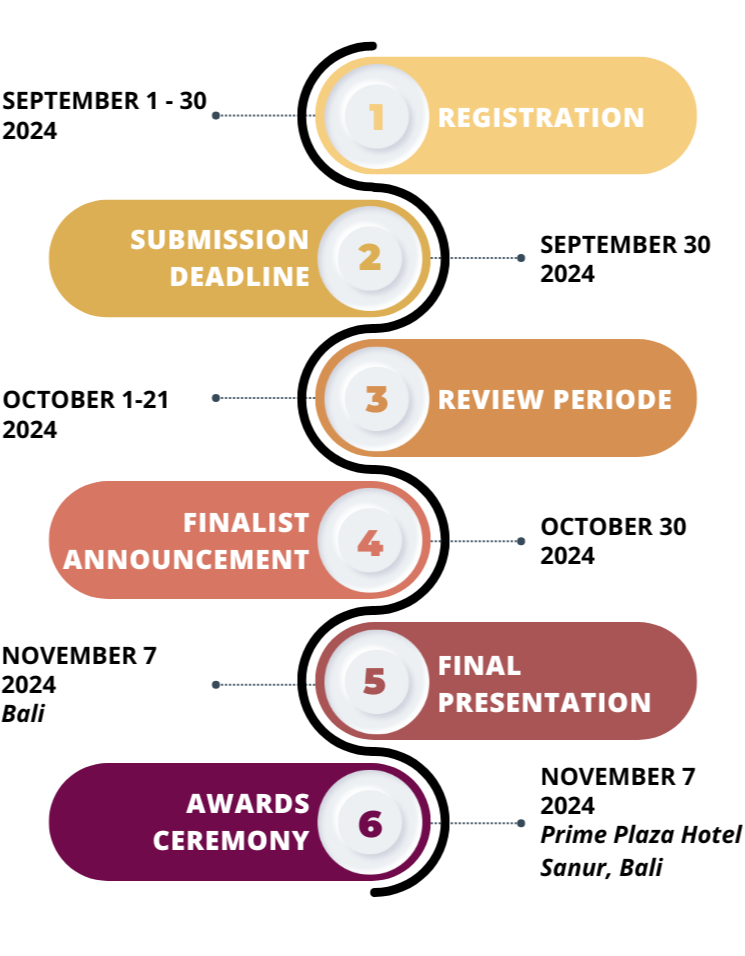
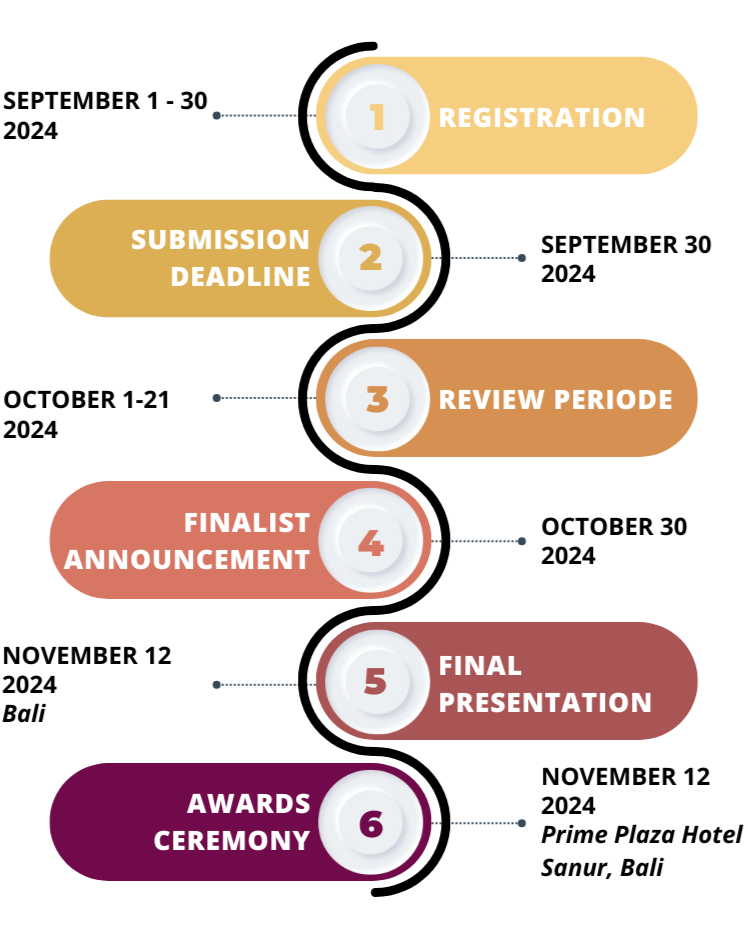
fika

diff --git a/about.html b/about.html
@@ -288,7 +288,7 @@
                 <div class="col-xl-6 wow fadeInLeft" data-wow-delay="0.2s">
                     <div class="about-item-content bg-white rounded p-5 h-100">
                         <h5 class="text-primary"><b>Date & Time:</b></h5>
-                        <p>November 7, 2024   8:00 AM</p>
+                        <p>November 12, 2024   8:00 AM</p>
                         <h5 class="text-primary"><b>Location:</b></h5>
                         <p>Prime Plaza Hotel Sanur, Denpasar, Bali, Indonesia</p>
                         <div class="row g-0 justify-content-center">
@@ -346,313 +346,6 @@
         </div>
     </div>
     <!-- Service End -->
-
-    <!-- FAQs Start -->
-    <!-- <div class="container-fluid faq-section bg-light py-5">
-        <div class="container py-5">
-            <div class="row g-5 align-items-center">
-                <div class="col-xl-6 wow fadeInLeft" data-wow-delay="0.2s">
-                    <div class="h-100">
-                        <div class="mb-5">
-                            <h4 class="text-primary">Some Important FAQ's</h4>
-                            <h1 class="display-4 mb-0">Common Frequently Asked Questions</h1>
-                        </div>
-                        <div class="accordion" id="accordionExample">
-                            <div class="accordion-item">
-                                <h2 class="accordion-header" id="headingOne">
-                                    <button class="accordion-button border-0" type="button" data-bs-toggle="collapse" data-bs-target="#collapseOne" aria-expanded="true" aria-controls="collapseOne">
-                                            Q: What happens during Freshers' Week?
-                                        </button>
-                                </h2>
-                                <div id="collapseOne" class="accordion-collapse collapse show active" aria-labelledby="headingOne" data-bs-parent="#accordionExample">
-                                    <div class="accordion-body rounded">
-                                        A: Leverage agile frameworks to provide a robust synopsis for high level overviews. Iterative approaches to corporate strategy foster collaborative thinking to further the overall value proposition. Organically grow the holistic world view of disruptive
-                                        innovation via workplace diversity and empowerment.
-                                    </div>
-                                </div>
-                            </div>
-                            <div class="accordion-item">
-                                <h2 class="accordion-header" id="headingTwo">
-                                    <button class="accordion-button collapsed" type="button" data-bs-toggle="collapse" data-bs-target="#collapseTwo" aria-expanded="false" aria-controls="collapseTwo">
-                                            Q: What is the transfer application process?
-                                        </button>
-                                </h2>
-                                <div id="collapseTwo" class="accordion-collapse collapse" aria-labelledby="headingTwo" data-bs-parent="#accordionExample">
-                                    <div class="accordion-body">
-                                        A: Leverage agile frameworks to provide a robust synopsis for high level overviews. Iterative approaches to corporate strategy foster collaborative thinking to further the overall value proposition. Organically grow the holistic world view of disruptive
-                                        innovation via workplace diversity and empowerment.
-                                    </div>
-                                </div>
-                            </div>
-                            <div class="accordion-item">
-                                <h2 class="accordion-header" id="headingThree">
-                                    <button class="accordion-button collapsed" type="button" data-bs-toggle="collapse" data-bs-target="#collapseThree" aria-expanded="false" aria-controls="collapseThree">
-                                            Q: Why should I attend community college?
-                                        </button>
-                                </h2>
-                                <div id="collapseThree" class="accordion-collapse collapse" aria-labelledby="headingThree" data-bs-parent="#accordionExample">
-                                    <div class="accordion-body">
-                                        A: Leverage agile frameworks to provide a robust synopsis for high level overviews. Iterative approaches to corporate strategy foster collaborative thinking to further the overall value proposition. Organically grow the holistic world view of disruptive
-                                        innovation via workplace diversity and empowerment.
-                                    </div>
-                                </div>
-                            </div>
-                        </div>
-                    </div>
-                </div>
-                <div class="col-xl-6 wow fadeInRight" data-wow-delay="0.4s">
-                    <img src="img/carousel-2.png" class="img-fluid w-100" alt="">
-                </div>
-            </div>
-        </div>
-    </div>  -->
-    <!-- FAQs End -->
-
-    <!-- Blog Start -->
-    <!-- <div class="container-fluid blog py-5">
-        <div class="container py-5">
-            <div class="text-center mx-auto pb-5 wow fadeInUp" data-wow-delay="0.2s" style="max-width: 800px;">
-                <h4 class="text-primary">From Blog</h4>
-                <h1 class="display-4 mb-4">News And Updates</h1>
-                <p class="mb-0">Lorem ipsum dolor, sit amet consectetur adipisicing elit. Tenetur adipisci facilis cupiditate recusandae aperiam temporibus corporis itaque quis facere, numquam, ad culpa deserunt sint dolorem autem obcaecati, ipsam mollitia hic.
-                </p>
-            </div>
-            <div class="row g-4 justify-content-center">
-                <div class="col-lg-6 col-xl-4 wow fadeInUp" data-wow-delay="0.2s">
-                    <div class="blog-item">
-                        <div class="blog-img">
-                            <img src="img/blog-1.png" class="img-fluid rounded-top w-100" alt="">
-                            <div class="blog-categiry py-2 px-4">
-                                <span>Business</span>
-                            </div>
-                        </div>
-                        <div class="blog-content p-4">
-                            <div class="blog-comment d-flex justify-content-between mb-3">
-                                <div class="small"><span class="fa fa-user text-primary"></span> Martin.C</div>
-                                <div class="small"><span class="fa fa-calendar text-primary"></span> 30 Dec 2025</div>
-                                <div class="small"><span class="fa fa-comment-alt text-primary"></span> 6 Comments</div>
-                            </div>
-                            <a href="#" class="h4 d-inline-block mb-3">Which allows you to pay down insurance bills</a>
-                            <p class="mb-3">Lorem, ipsum dolor sit amet consectetur adipisicing elit. Eius libero soluta impedit eligendi? Quibusdam, laudantium.</p>
-                            <a href="#" class="btn p-0">Read More  <i class="fa fa-arrow-right"></i></a>
-                        </div>
-                    </div>
-                </div>
-                <div class="col-lg-6 col-xl-4 wow fadeInUp" data-wow-delay="0.4s">
-                    <div class="blog-item">
-                        <div class="blog-img">
-                            <img src="img/blog-2.png" class="img-fluid rounded-top w-100" alt="">
-                            <div class="blog-categiry py-2 px-4">
-                                <span>Business</span>
-                            </div>
-                        </div>
-                        <div class="blog-content p-4">
-                            <div class="blog-comment d-flex justify-content-between mb-3">
-                                <div class="small"><span class="fa fa-user text-primary"></span> Martin.C</div>
-                                <div class="small"><span class="fa fa-calendar text-primary"></span> 30 Dec 2025</div>
-                                <div class="small"><span class="fa fa-comment-alt text-primary"></span> 6 Comments</div>
-                            </div>
-                            <a href="#" class="h4 d-inline-block mb-3">Leverage agile frameworks to provide</a>
-                            <p class="mb-3">Lorem, ipsum dolor sit amet consectetur adipisicing elit. Eius libero soluta impedit eligendi? Quibusdam, laudantium.</p>
-                            <a href="#" class="btn p-0">Read More  <i class="fa fa-arrow-right"></i></a>
-                        </div>
-                    </div>
-                </div>
-                <div class="col-lg-6 col-xl-4 wow fadeInUp" data-wow-delay="0.6s">
-                    <div class="blog-item">
-                        <div class="blog-img">
-                            <img src="img/blog-3.png" class="img-fluid rounded-top w-100" alt="">
-                            <div class="blog-categiry py-2 px-4">
-                                <span>Business</span>
-                            </div>
-                        </div>
-                        <div class="blog-content p-4">
-                            <div class="blog-comment d-flex justify-content-between mb-3">
-                                <div class="small"><span class="fa fa-user text-primary"></span> Martin.C</div>
-                                <div class="small"><span class="fa fa-calendar text-primary"></span> 30 Dec 2025</div>
-                                <div class="small"><span class="fa fa-comment-alt text-primary"></span> 6 Comments</div>
-                            </div>
-                            <a href="#" class="h4 d-inline-block mb-3">Leverage agile frameworks to provide</a>
-                            <p class="mb-3">Lorem, ipsum dolor sit amet consectetur adipisicing elit. Eius libero soluta impedit eligendi? Quibusdam, laudantium.</p>
-                            <a href="#" class="btn p-0">Read More  <i class="fa fa-arrow-right"></i></a>
-                        </div>
-                    </div>
-                </div>
-            </div>
-        </div>
-    </div> -->
-    <!-- Blog End -->
-
-    <!-- Team Start -->
-    <!-- <div class="container-fluid team pb-5">
-        <div class="container pb-5">
-            <div class="text-center mx-auto pb-5 wow fadeInUp" data-wow-delay="0.2s" style="max-width: 800px;">
-                <h4 class="text-primary">Our Team</h4>
-                <h1 class="display-4 mb-4">Meet Our Expert Team Members</h1>
-                <p class="mb-0">Lorem ipsum dolor, sit amet consectetur adipisicing elit. Tenetur adipisci facilis cupiditate recusandae aperiam temporibus corporis itaque quis facere, numquam, ad culpa deserunt sint dolorem autem obcaecati, ipsam mollitia hic.
-                </p>
-            </div>
-            <div class="row g-4">
-                <div class="col-md-6 col-lg-6 col-xl-3 wow fadeInUp" data-wow-delay="0.2s">
-                    <div class="team-item">
-                        <div class="team-img">
-                            <img src="img/team-1.jpg" class="img-fluid rounded-top w-100" alt="">
-                            <div class="team-icon">
-                                <a class="btn btn-primary btn-sm-square rounded-pill mb-2" href=""><i class="fab fa-facebook-f"></i></a>
-                                <a class="btn btn-primary btn-sm-square rounded-pill mb-2" href=""><i class="fab fa-twitter"></i></a>
-                                <a class="btn btn-primary btn-sm-square rounded-pill mb-2" href=""><i class="fab fa-linkedin-in"></i></a>
-                                <a class="btn btn-primary btn-sm-square rounded-pill mb-0" href=""><i class="fab fa-instagram"></i></a>
-                            </div>
-                        </div>
-                        <div class="team-title p-4">
-                            <h4 class="mb-0">David James</h4>
-                            <p class="mb-0">Profession</p>
-                        </div>
-                    </div>
-                </div>
-                <div class="col-md-6 col-lg-6 col-xl-3 wow fadeInUp" data-wow-delay="0.4s">
-                    <div class="team-item">
-                        <div class="team-img">
-                            <img src="img/team-2.jpg" class="img-fluid rounded-top w-100" alt="">
-                            <div class="team-icon">
-                                <a class="btn btn-primary btn-sm-square rounded-pill mb-2" href=""><i class="fab fa-facebook-f"></i></a>
-                                <a class="btn btn-primary btn-sm-square rounded-pill mb-2" href=""><i class="fab fa-twitter"></i></a>
-                                <a class="btn btn-primary btn-sm-square rounded-pill mb-2" href=""><i class="fab fa-linkedin-in"></i></a>
-                                <a class="btn btn-primary btn-sm-square rounded-pill mb-0" href=""><i class="fab fa-instagram"></i></a>
-                            </div>
-                        </div>
-                        <div class="team-title p-4">
-                            <h4 class="mb-0">David James</h4>
-                            <p class="mb-0">Profession</p>
-                        </div>
-                    </div>
-                </div>
-                <div class="col-md-6 col-lg-6 col-xl-3 wow fadeInUp" data-wow-delay="0.6s">
-                    <div class="team-item">
-                        <div class="team-img">
-                            <img src="img/team-3.jpg" class="img-fluid rounded-top w-100" alt="">
-                            <div class="team-icon">
-                                <a class="btn btn-primary btn-sm-square rounded-pill mb-2" href=""><i class="fab fa-facebook-f"></i></a>
-                                <a class="btn btn-primary btn-sm-square rounded-pill mb-2" href=""><i class="fab fa-twitter"></i></a>
-                                <a class="btn btn-primary btn-sm-square rounded-pill mb-2" href=""><i class="fab fa-linkedin-in"></i></a>
-                                <a class="btn btn-primary btn-sm-square rounded-pill mb-0" href=""><i class="fab fa-instagram"></i></a>
-                            </div>
-                        </div>
-                        <div class="team-title p-4">
-                            <h4 class="mb-0">David James</h4>
-                            <p class="mb-0">Profession</p>
-                        </div>
-                    </div>
-                </div>
-                <div class="col-md-6 col-lg-6 col-xl-3 wow fadeInUp" data-wow-delay="0.8s">
-                    <div class="team-item">
-                        <div class="team-img">
-                            <img src="img/team-4.jpg" class="img-fluid rounded-top w-100" alt="">
-                            <div class="team-icon">
-                                <a class="btn btn-primary btn-sm-square rounded-pill mb-2" href=""><i class="fab fa-facebook-f"></i></a>
-                                <a class="btn btn-primary btn-sm-square rounded-pill mb-2" href=""><i class="fab fa-twitter"></i></a>
-                                <a class="btn btn-primary btn-sm-square rounded-pill mb-2" href=""><i class="fab fa-linkedin-in"></i></a>
-                                <a class="btn btn-primary btn-sm-square rounded-pill mb-0" href=""><i class="fab fa-instagram"></i></a>
-                            </div>
-                        </div>
-                        <div class="team-title p-4">
-                            <h4 class="mb-0">David James</h4>
-                            <p class="mb-0">Profession</p>
-                        </div>
-                    </div>
-                </div>
-            </div>
-        </div>
-    </div> -->
-    <!-- Team End -->
-
-    <!-- Testimonial Start -->
-    <!-- <div class="container-fluid testimonial pb-5">
-        <div class="container pb-5">
-            <div class="text-center mx-auto pb-5 wow fadeInUp" data-wow-delay="0.2s" style="max-width: 800px;">
-                <h4 class="text-primary">Testimonial</h4>
-                <h1 class="display-4 mb-4">What Our Customers Are Saying</h1>
-                <p class="mb-0">Lorem ipsum dolor, sit amet consectetur adipisicing elit. Tenetur adipisci facilis cupiditate recusandae aperiam temporibus corporis itaque quis facere, numquam, ad culpa deserunt sint dolorem autem obcaecati, ipsam mollitia hic.
-                </p>
-            </div>
-            <div class="owl-carousel testimonial-carousel wow fadeInUp" data-wow-delay="0.2s">
-                <div class="testimonial-item bg-light rounded">
-                    <div class="row g-0">
-                        <div class="col-4  col-lg-4 col-xl-3">
-                            <div class="h-100">
-                                <img src="img/testimonial-1.jpg" class="img-fluid h-100 rounded" style="object-fit: cover;" alt="">
-                            </div>
-                        </div>
-                        <div class="col-8 col-lg-8 col-xl-9">
-                            <div class="d-flex flex-column my-auto text-start p-4">
-                                <h4 class="text-dark mb-0">Client Name</h4>
-                                <p class="mb-3">Profession</p>
-                                <div class="d-flex text-primary mb-3">
-                                    <i class="fas fa-star"></i>
-                                    <i class="fas fa-star"></i>
-                                    <i class="fas fa-star"></i>
-                                    <i class="fas fa-star"></i>
-                                    <i class="fas fa-star"></i>
-                                </div>
-                                <p class="mb-0">Lorem, ipsum dolor sit amet consectetur adipisicing elit. Enim error molestiae aut modi corrupti fugit eaque rem nulla incidunt temporibus quisquam,
-                                </p>
-                            </div>
-                        </div>
-                    </div>
-                </div>
-                <div class="testimonial-item bg-light rounded">
-                    <div class="row g-0">
-                        <div class="col-4  col-lg-4 col-xl-3">
-                            <div class="h-100">
-                                <img src="img/testimonial-2.jpg" class="img-fluid h-100 rounded" style="object-fit: cover;" alt="">
-                            </div>
-                        </div>
-                        <div class="col-8 col-lg-8 col-xl-9">
-                            <div class="d-flex flex-column my-auto text-start p-4">
-                                <h4 class="text-dark mb-0">Client Name</h4>
-                                <p class="mb-3">Profession</p>
-                                <div class="d-flex text-primary mb-3">
-                                    <i class="fas fa-star"></i>
-                                    <i class="fas fa-star"></i>
-                                    <i class="fas fa-star"></i>
-                                    <i class="fas fa-star"></i>
-                                    <i class="fas fa-star text-body"></i>
-                                </div>
-                                <p class="mb-0">Lorem, ipsum dolor sit amet consectetur adipisicing elit. Enim error molestiae aut modi corrupti fugit eaque rem nulla incidunt temporibus quisquam,
-                                </p>
-                            </div>
-                        </div>
-                    </div>
-                </div>
-                <div class="testimonial-item bg-light rounded">
-                    <div class="row g-0">
-                        <div class="col-4  col-lg-4 col-xl-3">
-                            <div class="h-100">
-                                <img src="img/testimonial-3.jpg" class="img-fluid h-100 rounded" style="object-fit: cover;" alt="">
-                            </div>
-                        </div>
-                        <div class="col-8 col-lg-8 col-xl-9">
-                            <div class="d-flex flex-column my-auto text-start p-4">
-                                <h4 class="text-dark mb-0">Client Name</h4>
-                                <p class="mb-3">Profession</p>
-                                <div class="d-flex text-primary mb-3">
-                                    <i class="fas fa-star"></i>
-                                    <i class="fas fa-star"></i>
-                                    <i class="fas fa-star"></i>
-                                    <i class="fas fa-star text-body"></i>
-                                    <i class="fas fa-star text-body"></i>
-                                </div>
-                                <p class="mb-0">Lorem, ipsum dolor sit amet consectetur adipisicing elit. Enim error molestiae aut modi corrupti fugit eaque rem nulla incidunt temporibus quisquam,
-                                </p>
-                            </div>
-                        </div>
-                    </div>
-                </div>
-            </div>
-        </div>
-    </div> -->
-    <!-- Testimonial End -->
-
 
     <!-- Footer Start -->
     <div class="container-fluid footer py-5 wow fadeIn" data-wow-delay="0.2s">

diff --git a/guidelines.html b/guidelines.html
@@ -344,8 +344,8 @@
                                             Q: What is the registration procedure?
                                         </button>
                                 </h2>
-                                <div id="collapseTwo" class="accordion-collapse collapse show active" aria-labelledby="headingTwo" data-bs-parent="#accordionExample">
-                                    <div class="accordion-body rounded">
+                                <div id="collapseTwo" class="accordion-collapse collapse" aria-labelledby="headingTwo" data-bs-parent="#accordionExample">
+                                    <div class="accordion-body">
                                         <ul style="list-style: none; padding-left: 0;">
                                             <li>
                                                 <strong>A:</strong>
@@ -367,7 +367,7 @@
                                 </h2>
                                 <div id="collapseThree" class="accordion-collapse collapse" aria-labelledby="headingThree" data-bs-parent="#accordionExample">
                                     <div class="accordion-body">
-                                        A: You can contact the details listed below.
+                                        <b>A:</b> You can contact the details listed below.
                                     </div>
                                 </div>
                             </div>

diff --git a/index.html b/index.html
@@ -471,8 +471,8 @@
                                             Q: What is the registration procedure?
                                         </button>
                                 </h2>
-                                <div id="collapseTwo" class="accordion-collapse collapse show active" aria-labelledby="headingTwo" data-bs-parent="#accordionExample">
-                                    <div class="accordion-body rounded">
+                                <div id="collapseTwo" class="accordion-collapse collapse" aria-labelledby="headingTwo" data-bs-parent="#accordionExample">
+                                    <div class="accordion-body">
                                         <ul style="list-style: none; padding-left: 0;">
                                             <li>
                                                 <strong>A:</strong>
@@ -494,7 +494,7 @@
                                 </h2>
                                 <div id="collapseThree" class="accordion-collapse collapse" aria-labelledby="headingThree" data-bs-parent="#accordionExample">
                                     <div class="accordion-body">
-                                        A: You can contact the details listed below.
+                                        <b>A:</b> You can contact the details listed below.
                                     </div>
                                 </div>
                             </div>
